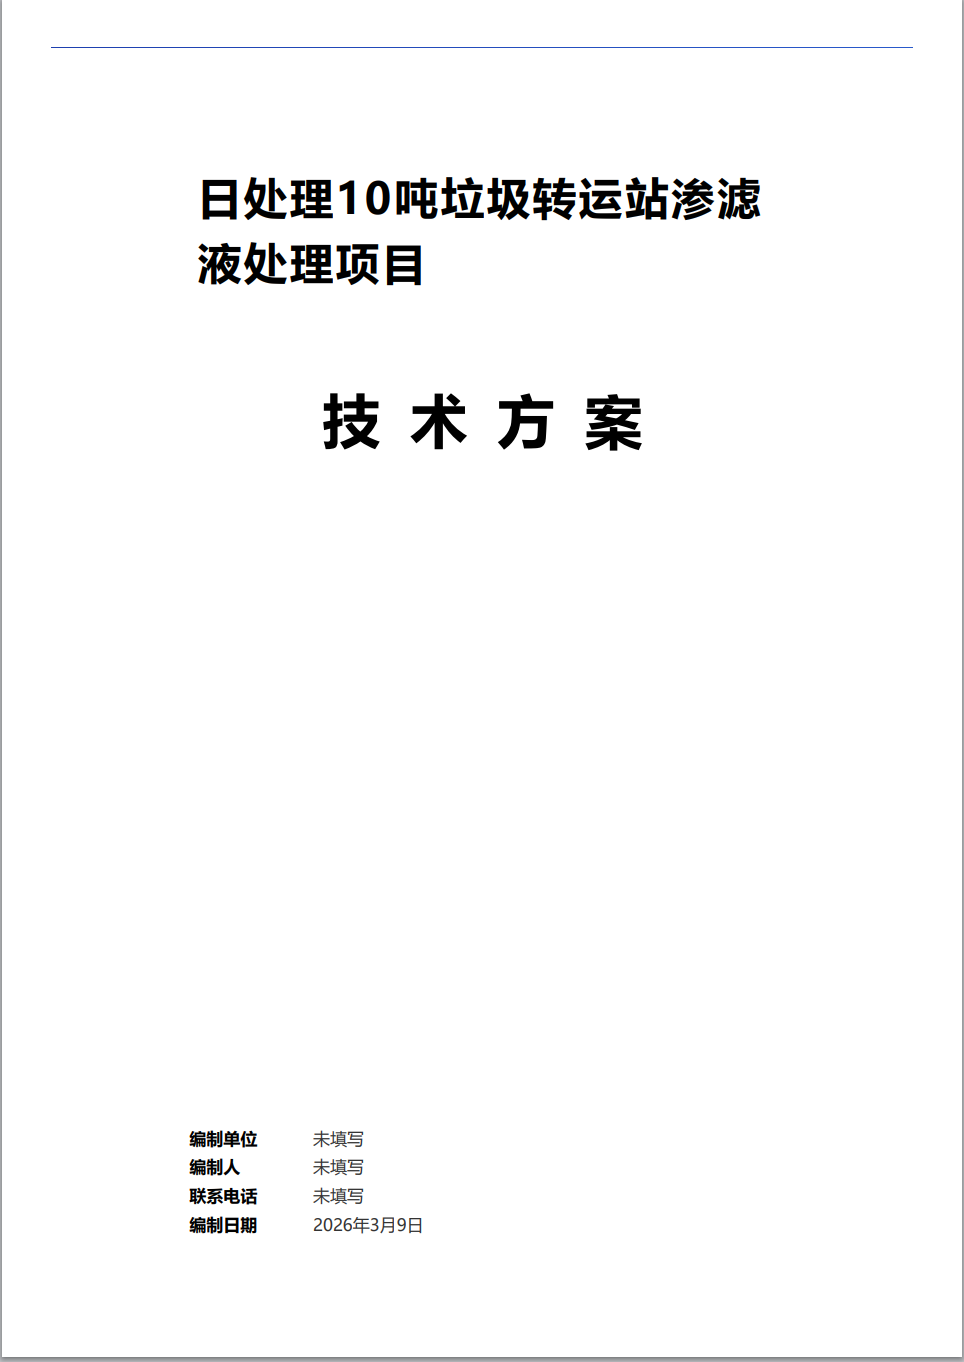
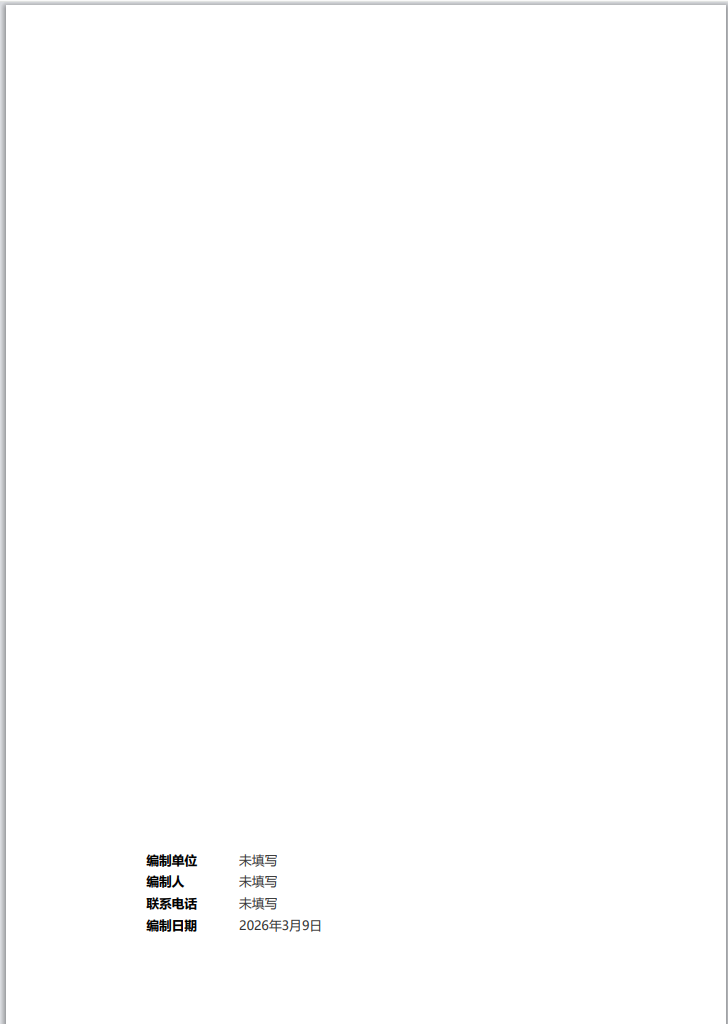
fix: 修复PDF封面蓝色块和文字不显示的问题

diff --git a/src/components/chat-message.tsx b/src/components/chat-message.tsx
@@ -1774,7 +1774,7 @@ export default function ChatMessage({
       text-align: center;
       padding: 0;
       page-break-after: always;
-      background: #ffffff;
+      background: transparent;
       color: #000000;
       height: 270mm;
       min-height: 270mm;
@@ -1783,9 +1783,9 @@ export default function ChatMessage({
       flex-direction: column;
       justify-content: space-between;
       position: relative;
-      overflow: hidden;
-      -webkit-print-color-adjust: exact;
-      print-color-adjust: exact;
+      overflow: visible;
+      -webkit-print-color-adjust: exact !important;
+      print-color-adjust: exact !important;
       padding: 25.4mm 31.8mm 25.4mm 31.8mm;
       box-sizing: border-box;
     }
@@ -1808,7 +1808,7 @@ export default function ChatMessage({
       font-family: "Microsoft YaHei", "SimHei", sans-serif;
       text-align: center;
       margin-bottom: 80px;
-      z-index: 1;
+      z-index: 10;
       position: relative;
     }
     
@@ -1824,7 +1824,7 @@ export default function ChatMessage({
       line-height: 1.5;
       font-family: "Microsoft YaHei", "SimHei", sans-serif;
       align-self: center;
-      z-index: 1;
+      z-index: 10;
       position: relative;
     }
     
@@ -1833,10 +1833,10 @@ export default function ChatMessage({
       position: absolute;
       top: 0;
       left: 0;
-      width: 210mm;
+      right: 0;
       height: 150mm;
       background: linear-gradient(135deg, #1e40af 0%, #3b82f6 100%);
-      z-index: -1;
+      z-index: 0;
       -webkit-print-color-adjust: exact;
       print-color-adjust: exact;
     }
